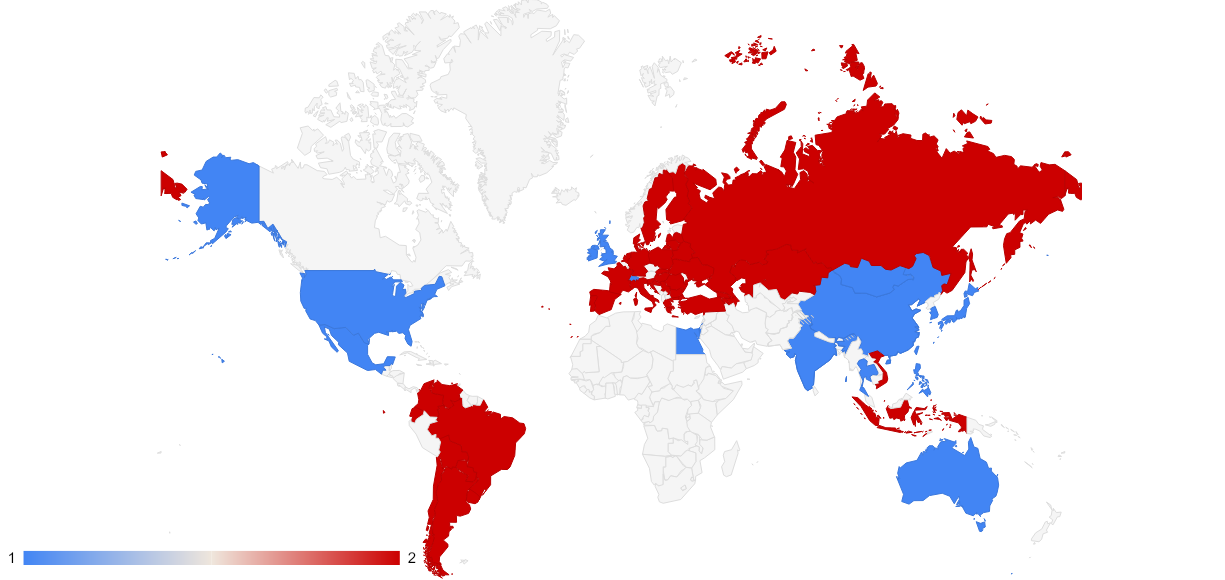
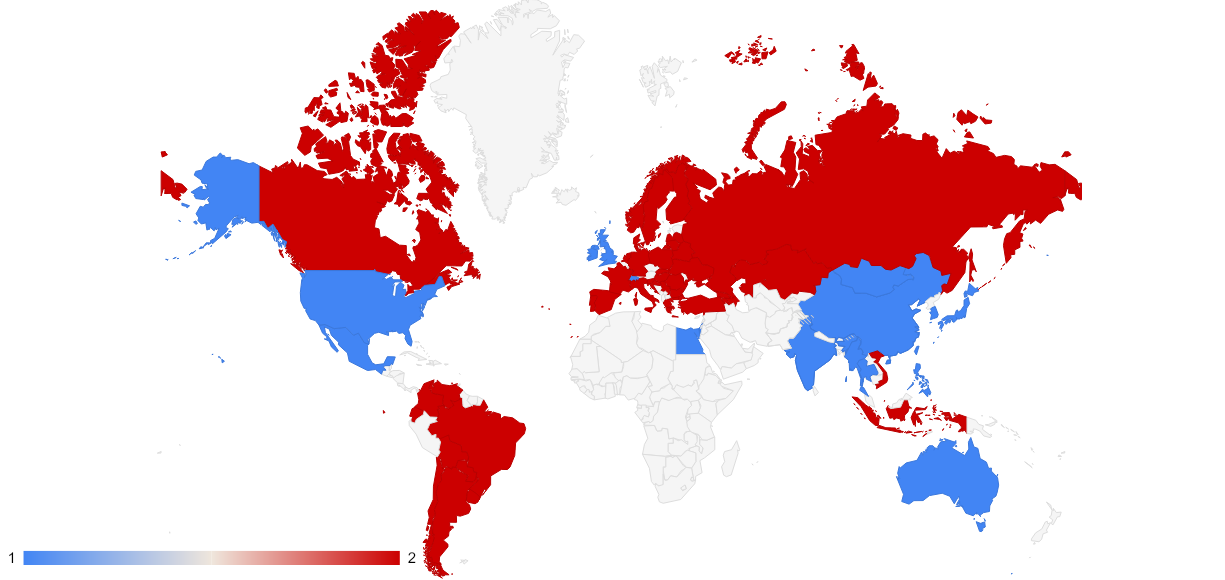
updates

diff --git a/README.md b/README.md
@@ -1,5 +1,7 @@
 # `;` or `,`
 
+The spreadsheet with data [there](https://docs.google.com/spreadsheets/d/1YvGje4cbSwHQwsQFYVQGfaYG4fm0LLd1T2RTjvZ5i5c/edit?usp=sharing)
+
 Which separator is used in which locale for Google Apps Script formulas?
 
 ![](./assets/chart_1.png)
